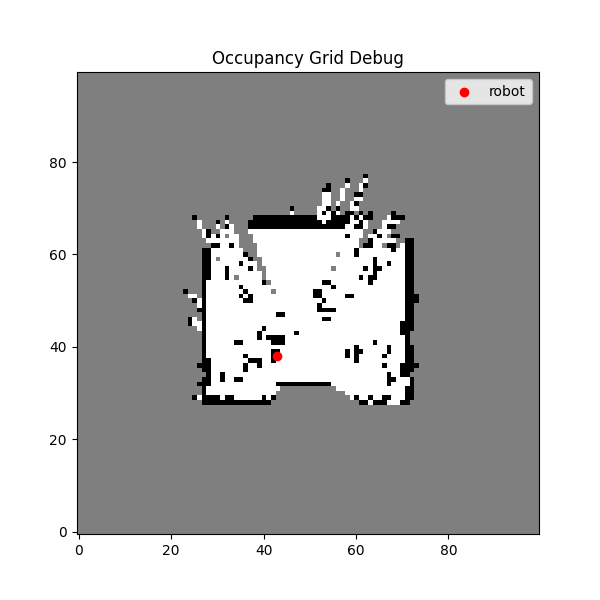
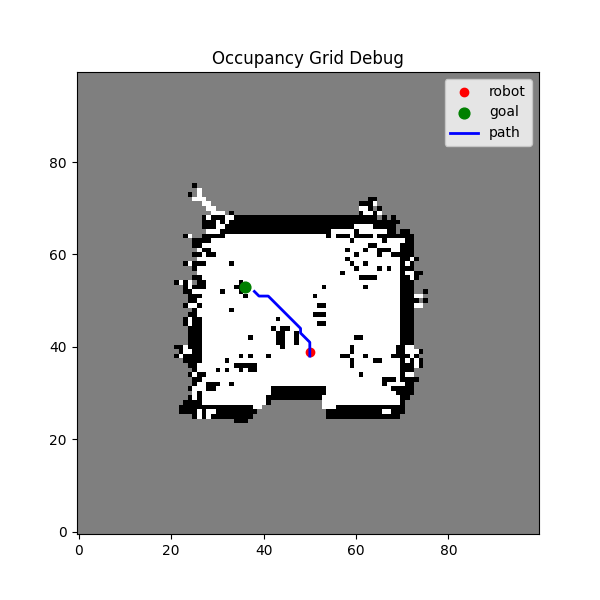
update radius

Changed region(s): [[0.27, 0.3, 0.72, 0.72], [0.72, 0.15, 0.9, 0.27], [0.57, 0.48, 0.6, 0.51]]

diff --git a/trabalho/trabalho/controllers/restaurant_epuck/restaurant_epuck.py b/trabalho/trabalho/controllers/restaurant_epuck/restaurant_epuck.py
@@ -185,8 +185,8 @@ class RestaurantEpuck:
 
         self.base_pos = (0.0, -0.39)
 
-        self.table_arrival_radius = 0.18
-        self.base_arrival_radius = 0.03
+        self.table_arrival_radius = 0.15
+        self.base_arrival_radius = 0.02
 
         self.state = STATE_IDLE
         self.target_id = None
@@ -201,7 +201,7 @@ class RestaurantEpuck:
         self.return_start_time = None
         self.return_times = []
         self.run_id = os.environ.get("SIM_RUN_ID", "manual")
-        self.request_policy = os.environ.get("REQUEST_POLICY", POLICY_FIFO).upper()
+        self.request_policy = os.environ.get("REQUEST_POLICY", POLICY_NEAREST).upper()
         if self.request_policy not in VALID_REQUEST_POLICIES:
             print(
                 "[restaurant_epuck] unsupported REQUEST_POLICY="

diff --git a/trabalho/trabalho/controllers/dynamic_obstacles_manager/dynamic_obstacles_manager.py b/trabalho/trabalho/controllers/dynamic_obstacles_manager/dynamic_obstacles_manager.py
@@ -51,7 +51,7 @@ its LiDAR and proximity sensors.
 """
 
 TIME_STEP = 32
-DYNAMIC_ENVIRONMENT = True
+DYNAMIC_ENVIRONMENT = False
 
 SCENARIO_PERIOD = 95.0
 
